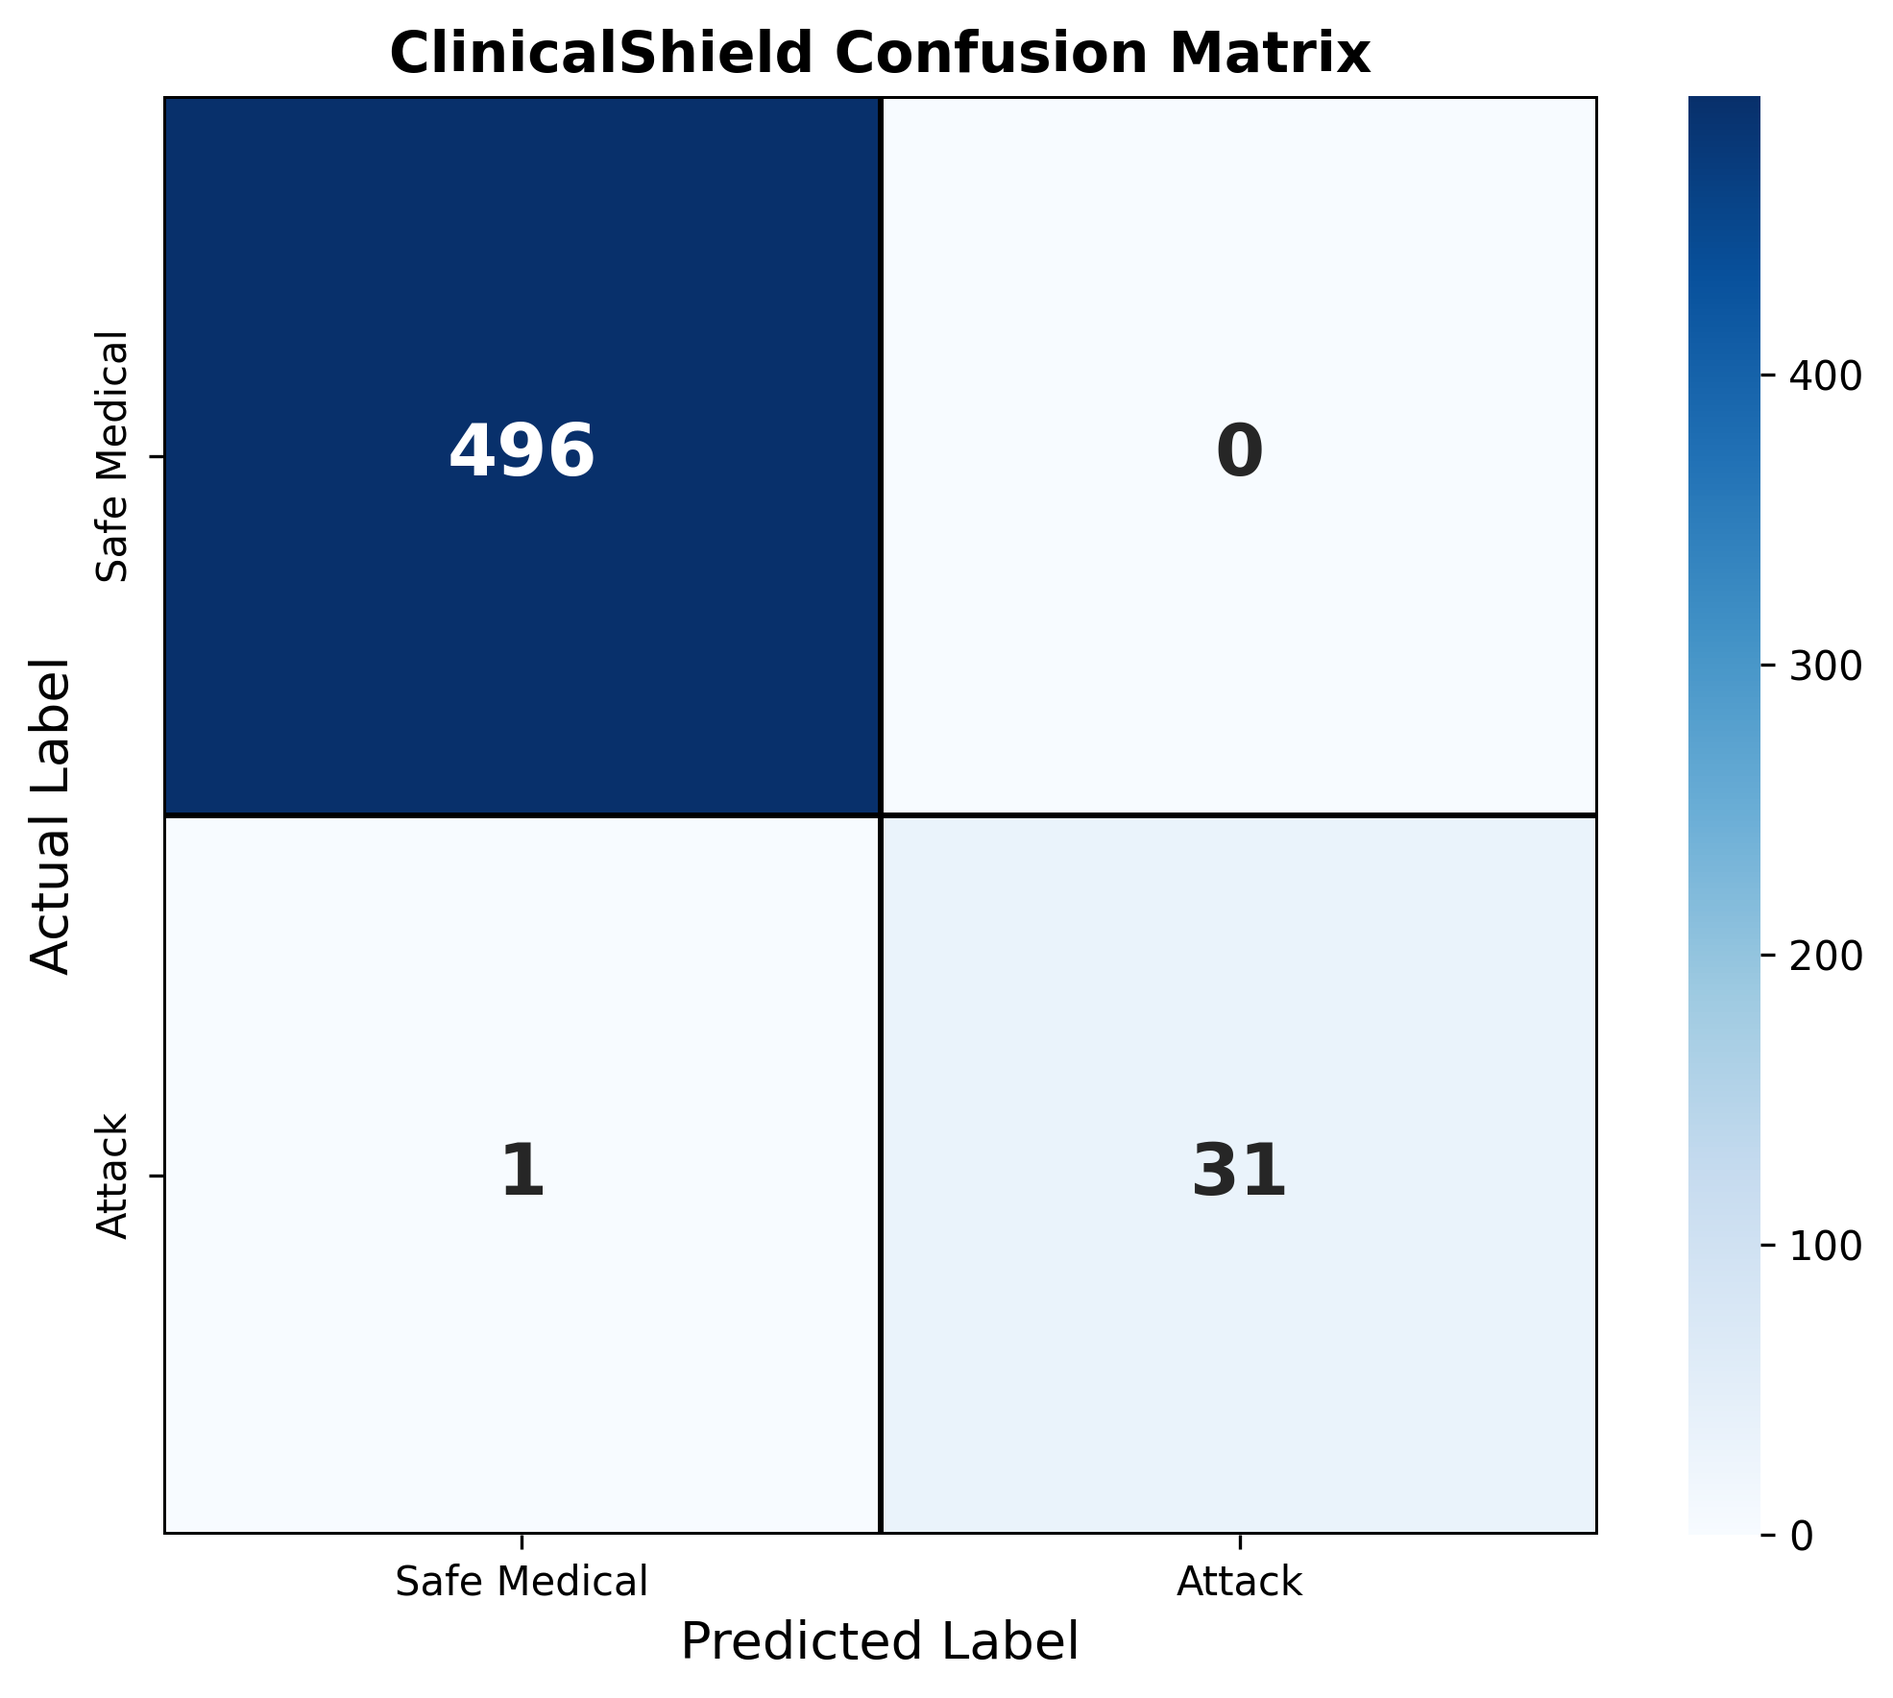
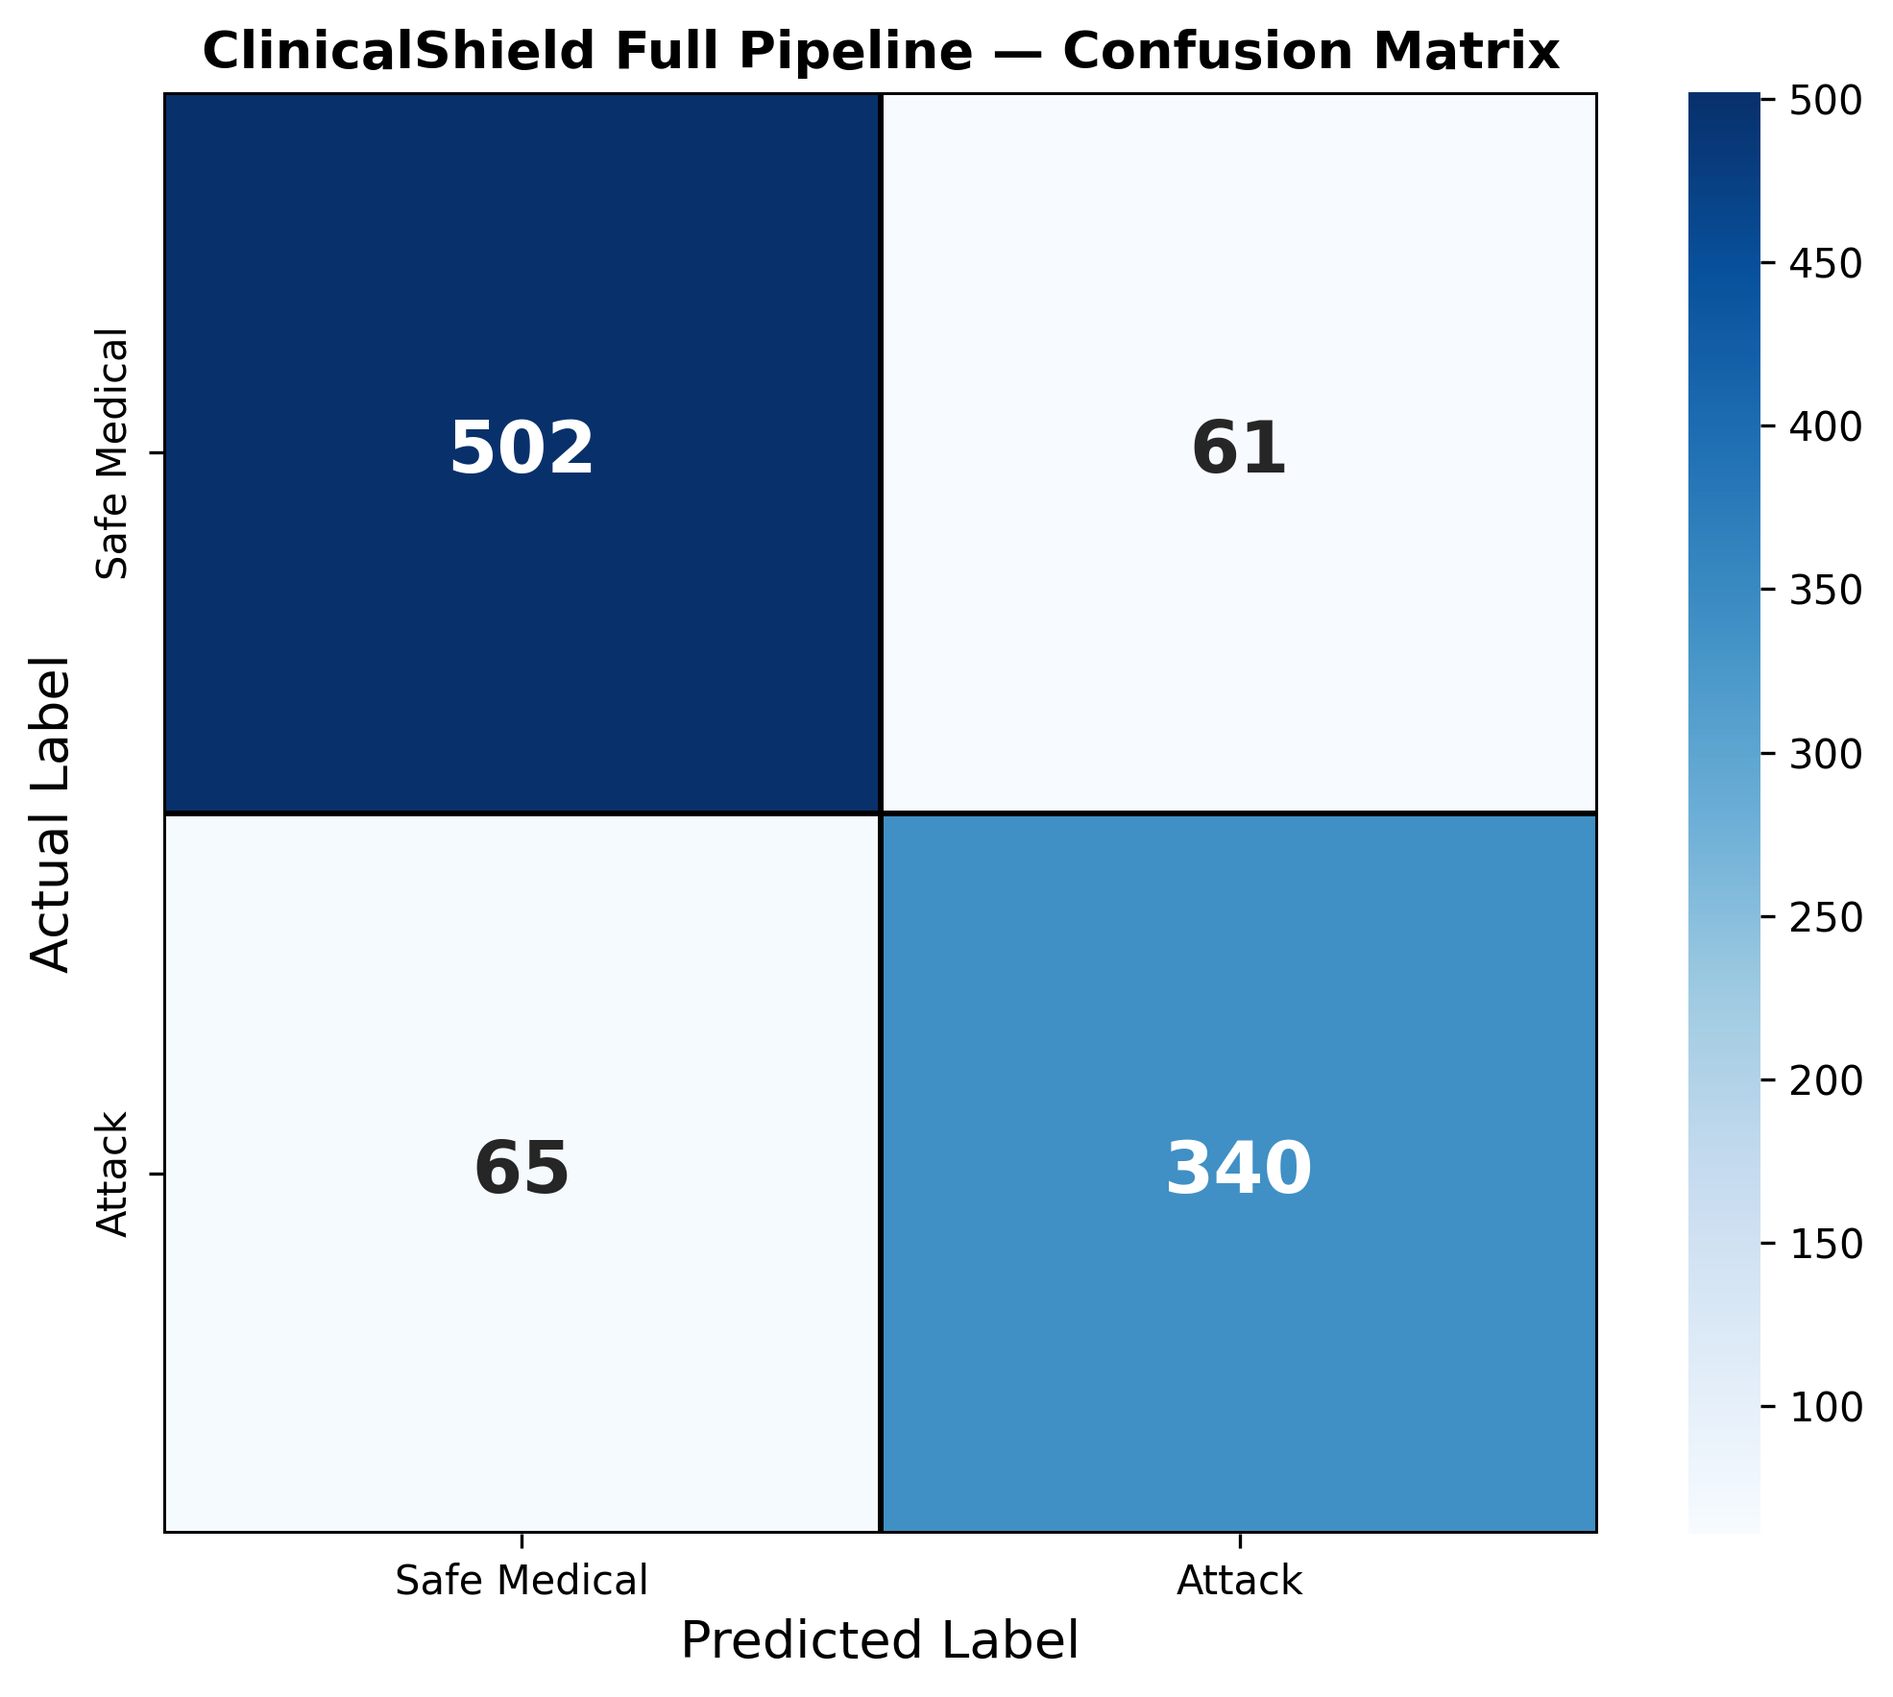
Notebook 06: Full pipeline — retrained model, end-to-end eval, latency

diff --git a/src/module1_encoding/detector.py b/src/module1_encoding/detector.py
@@ -1,180 +1,140 @@
 """
-ClinicalShield Module 1: Encoding-Aware Ingestion Layer (v2 — fixed)
-
-Detects and decodes obfuscated payloads in clinical text.
-Supports: Base64, Hex, Unicode, Leetspeak, URL encoding, Nested.
+ClinicalShield Module 1: Encoding-Aware Ingestion Layer (v3 — fixed Base64 FP)
 """
-
-import base64
-import re
-import math
+import base64, re, math
 from urllib.parse import unquote
 from collections import Counter
 
-
 class EncodingDetector:
-
     def __init__(self, confidence_threshold=0.85):
         self.confidence_threshold = confidence_threshold
         self.leet_reverse = {
             '4':'a','@':'a','3':'e','1':'i','!':'i',
             '0':'o','5':'s','$':'s','7':'t','|':'l','9':'g','8':'b'
         }
-        # Base64: 20+ valid chars with optional padding
         self.b64_pattern = re.compile(r'[A-Za-z0-9+/]{20,}={0,2}')
 
-    def _entropy(self, text):
-        if not text:
-            return 0.0
-        freq = Counter(text)
-        n = len(text)
-        return -sum((c/n) * math.log2(c/n) for c in freq.values())
+    def _is_real_base64(self, s):
+        """Check if string has real Base64 characteristics vs being a long word."""
+        has_upper = any(c.isupper() for c in s)
+        has_lower = any(c.islower() for c in s)
+        has_digit = any(c.isdigit() for c in s)
+        has_special = any(c in '+/=' for c in s)
 
-    # ── Base64 ─────────────────────────────────────────────
+        # Real Base64 has mixed case + usually digits or special chars
+        # Single long words are typically all lowercase or title case
+        if not has_digit and not has_special:
+            # No digits or special chars — check case pattern
+            upper_count = sum(1 for c in s if c.isupper())
+            if upper_count <= 1:
+                return False  # Likely a regular word (all lowercase or Title case)
+
+        # Check character entropy — Base64 has higher entropy than words
+        freq = Counter(s)
+        n = len(s)
+        entropy = -sum((c/n) * math.log2(c/n) for c in freq.values())
+        if entropy < 3.5:
+            return False  # Low entropy = repetitive = likely a word
+
+        return True
+
     def detect_base64(self, text):
         matches = self.b64_pattern.findall(text)
         results = []
         for match in matches:
+            if not self._is_real_base64(match):
+                continue
             try:
                 decoded = base64.b64decode(match).decode('utf-8', errors='ignore')
                 alpha = sum(c.isalpha() or c.isspace() for c in decoded) / max(len(decoded),1)
                 if alpha > 0.4 and len(decoded) > 5:
-                    results.append({
-                        'encoding':'base64','encoded':match,
-                        'decoded':decoded,'confidence':min(alpha+0.2,1.0)
-                    })
+                    results.append({'encoding':'base64','encoded':match,
+                                    'decoded':decoded,'confidence':min(alpha+0.2,1.0)})
             except Exception:
                 continue
         return results
 
-    # ── Hex ─────────────────────────────────────────────────
     def detect_hex(self, text):
         results = []
-        # Match both \\xNN and \xNN patterns (escaped and literal)
-        patterns = [
-            re.compile(r'(?:\\\\x[0-9a-fA-F]{2}){3,}'),  # \\xNN (escaped backslash)
-            re.compile(r'(?:\\x[0-9a-fA-F]{2}){3,}'),     # \xNN (single backslash)
-        ]
+        patterns = [re.compile(r'(?:\\\\x[0-9a-fA-F]{2}){3,}'),
+                    re.compile(r'(?:\\x[0-9a-fA-F]{2}){3,}')]
         for pat in patterns:
             for match in pat.finditer(text):
                 try:
                     raw = match.group()
-                    # Normalize to get just the hex digits
                     clean = re.sub(r'\\\\x|\\x', '', raw)
                     decoded = bytes.fromhex(clean).decode('utf-8', errors='ignore')
                     if len(decoded) > 3:
-                        results.append({
-                            'encoding':'hex','encoded':raw[:100],
-                            'decoded':decoded,'confidence':0.95
-                        })
-                except Exception:
-                    continue
+                        results.append({'encoding':'hex','encoded':raw[:100],
+                                        'decoded':decoded,'confidence':0.95})
+                except: continue
         return results
 
-    # ── Unicode ─────────────────────────────────────────────
     def detect_unicode(self, text):
         results = []
-        patterns = [
-            re.compile(r'(?:\\\\u[0-9a-fA-F]{4}){3,}'),  # \\uNNNN
-            re.compile(r'(?:\\u[0-9a-fA-F]{4}){3,}'),     # \uNNNN
-        ]
+        patterns = [re.compile(r'(?:\\\\u[0-9a-fA-F]{4}){3,}'),
+                    re.compile(r'(?:\\u[0-9a-fA-F]{4}){3,}')]
         for pat in patterns:
             for match in pat.finditer(text):
                 try:
                     raw = match.group()
-                    # Try to decode unicode escapes
                     normalized = raw.replace('\\\\u', '\\u')
                     decoded = normalized.encode().decode('unicode_escape')
                     if len(decoded) > 3:
-                        results.append({
-                            'encoding':'unicode','encoded':raw[:100],
-                            'decoded':decoded,'confidence':0.95
-                        })
-                except Exception:
-                    continue
+                        results.append({'encoding':'unicode','encoded':raw[:100],
+                                        'decoded':decoded,'confidence':0.95})
+                except: continue
         return results
 
-    # ── URL Encoding ────────────────────────────────────────
     def detect_url_encoding(self, text):
         results = []
-        # Match any stretch containing %XX patterns (at least 3)
         pat = re.compile(r'(?:[A-Za-z0-9]*%[0-9a-fA-F]{2}){3,}[A-Za-z0-9]*')
         for match in pat.finditer(text):
             try:
                 raw = match.group()
                 decoded = unquote(raw)
                 if decoded != raw and len(decoded) > 5:
-                    results.append({
-                        'encoding':'url','encoded':raw[:100],
-                        'decoded':decoded,'confidence':0.90
-                    })
-            except Exception:
-                continue
+                    results.append({'encoding':'url','encoded':raw[:100],
+                                    'decoded':decoded,'confidence':0.90})
+            except: continue
         return results
 
-    # ── Leetspeak ───────────────────────────────────────────
     def detect_leetspeak(self, text):
         leet_chars = set(self.leet_reverse.keys())
-        # Count leet substitution characters in the text
-        total_alpha_like = sum(1 for c in text if c.isalpha() or c in leet_chars)
-        if total_alpha_like == 0:
-            return []
-
+        total = sum(1 for c in text if c.isalpha() or c in leet_chars)
+        if total == 0: return []
         leet_count = sum(1 for c in text if c in leet_chars)
-        leet_ratio = leet_count / total_alpha_like
-
-        # If more than 10% of alpha-like characters are leet substitutions
-        if leet_ratio > 0.10 and leet_count >= 3:
+        ratio = leet_count / total
+        if ratio > 0.10 and leet_count >= 3:
             decoded = ''.join(self.leet_reverse.get(c, c) for c in text)
-            return [{
-                'encoding':'leetspeak','encoded':text[:200],
-                'decoded':decoded[:200],
-                'confidence': min(leet_ratio + 0.5, 1.0)
-            }]
+            return [{'encoding':'leetspeak','encoded':text[:200],
+                     'decoded':decoded[:200],'confidence':min(ratio+0.5,1.0)}]
         return []
 
-    # ── Main Detect ─────────────────────────────────────────
     def detect(self, text):
         if not isinstance(text, str) or len(text) < 10:
-            return {
-                'has_encoding':False,'detections':[],
-                'decoded_text':text,'original_text':text
-            }
-
+            return {'has_encoding':False,'detections':[],'decoded_text':text,'original_text':text}
         all_det = []
         all_det.extend(self.detect_base64(text))
         all_det.extend(self.detect_hex(text))
         all_det.extend(self.detect_unicode(text))
         all_det.extend(self.detect_url_encoding(text))
         all_det.extend(self.detect_leetspeak(text))
-
         confident = [d for d in all_det if d['confidence'] >= self.confidence_threshold]
-
         decoded_text = text
         for det in confident:
             if det['encoding'] != 'leetspeak':
                 decoded_text = decoded_text.replace(det['encoded'], det['decoded'])
-
-        return {
-            'has_encoding': len(confident) > 0,
-            'detections': confident,
-            'decoded_text': decoded_text,
-            'original_text': text
-        }
+        return {'has_encoding':len(confident)>0,'detections':confident,
+                'decoded_text':decoded_text,'original_text':text}
 
     def detect_and_decode(self, text, max_depth=3):
-        current = text
-        all_det = []
+        current, all_det = text, []
         for _ in range(max_depth):
             result = self.detect(current)
-            if not result['has_encoding']:
-                break
+            if not result['has_encoding']: break
             all_det.extend(result['detections'])
             current = result['decoded_text']
-        return {
-            'has_encoding': len(all_det) > 0,
-            'detections': all_det,
-            'decoded_text': current,
-            'original_text': text,
-            'encoding_depth': len(set(d['encoding'] for d in all_det))
-        }
+        return {'has_encoding':len(all_det)>0,'detections':all_det,
+                'decoded_text':current,'original_text':text,
+                'encoding_depth':len(set(d['encoding'] for d in all_det))}

diff --git a/src/pipeline.py b/src/pipeline.py
@@ -1,0 +1,99 @@
+"""
+ClinicalShield: Full End-to-End Pipeline
+
+Module 1 (Encoding) → Module 2 (Detection) → Module 3 (Intent) → Module 4 (Sanitization)
+"""
+import torch
+from transformers import AutoTokenizer, AutoModel
+import torch.nn as nn
+
+
+class ClinicalShieldDetector(nn.Module):
+    def __init__(self, model_name, num_labels=2, dropout=0.1):
+        super().__init__()
+        self.bert = AutoModel.from_pretrained(model_name, output_attentions=True)
+        self.dropout = nn.Dropout(dropout)
+        self.classifier = nn.Linear(self.bert.config.hidden_size, num_labels)
+    def forward(self, input_ids, attention_mask, return_attention=False):
+        outputs = self.bert(input_ids=input_ids, attention_mask=attention_mask)
+        cls = self.dropout(outputs.last_hidden_state[:, 0, :])
+        logits = self.classifier(cls)
+        if return_attention:
+            attn = outputs.attentions[-1].mean(dim=1)[:, 0, :]
+            return logits, attn
+        return logits
+
+
+class ClinicalShieldPipeline:
+    def __init__(self, model_dir='models/clinicalshield_detector',
+                 weights_path='models/best_model.pt',
+                 device='cuda', detection_threshold=0.5):
+        self.device = device
+        self.threshold = detection_threshold
+
+        # Module 1: Encoding Detector
+        from src.module1_encoding.detector import EncodingDetector
+        self.encoder = EncodingDetector(confidence_threshold=0.7)
+
+        # Module 2: PubMedBERT Detector
+        self.tokenizer = AutoTokenizer.from_pretrained(model_dir)
+        self.detector = ClinicalShieldDetector(model_dir)
+        self.detector.load_state_dict(torch.load(weights_path, map_location=device))
+        self.detector.to(device)
+        self.detector.eval()
+
+        # Module 4: Sanitizer
+        from src.module4_sanitization.sanitizer import ClinicalSanitizer
+        self.sanitizer = ClinicalSanitizer()
+
+    def process(self, text):
+        """
+        Full pipeline processing.
+        Returns dict with detection result, sanitized text, and all module outputs.
+        """
+        result = {
+            'original_text': text,
+            'is_attack': False,
+            'attack_probability': 0.0,
+            'encoding_detected': False,
+            'sanitized_text': text,
+            'ceps': 1.0,
+        }
+
+        # Step 1: Encoding detection + decoding
+        enc_result = self.encoder.detect_and_decode(str(text))
+        result['encoding_detected'] = enc_result['has_encoding']
+        processed_text = enc_result['decoded_text']
+
+        # Step 2: PubMedBERT classification
+        encoding = self.tokenizer(
+            processed_text, max_length=512, truncation=True,
+            padding='max_length', return_tensors='pt'
+        )
+        with torch.no_grad():
+            ids = encoding['input_ids'].to(self.device)
+            masks = encoding['attention_mask'].to(self.device)
+            logits, attn = self.detector(ids, masks, return_attention=True)
+            probs = torch.softmax(logits, dim=1)
+
+        attack_prob = probs[0, 1].item()
+        result['attack_probability'] = attack_prob
+        result['is_attack'] = attack_prob > self.threshold
+
+        # Step 3: If attack detected, sanitize
+        if result['is_attack']:
+            tokens = self.tokenizer.convert_ids_to_tokens(ids[0].cpu())
+            san_result = self.sanitizer.sanitize(
+                processed_text,
+                attention_weights=attn[0].cpu().numpy(),
+                tokens=tokens
+            )
+            result['sanitized_text'] = san_result['sanitized']
+            result['ceps'] = san_result['ceps']
+            result['removed_segments'] = san_result['removed_segments']
+
+        # Elevated risk if encoding was detected
+        if result['encoding_detected'] and not result['is_attack']:
+            result['risk_note'] = 'Encoding detected but classifier passed — review recommended'
+
+        return result
